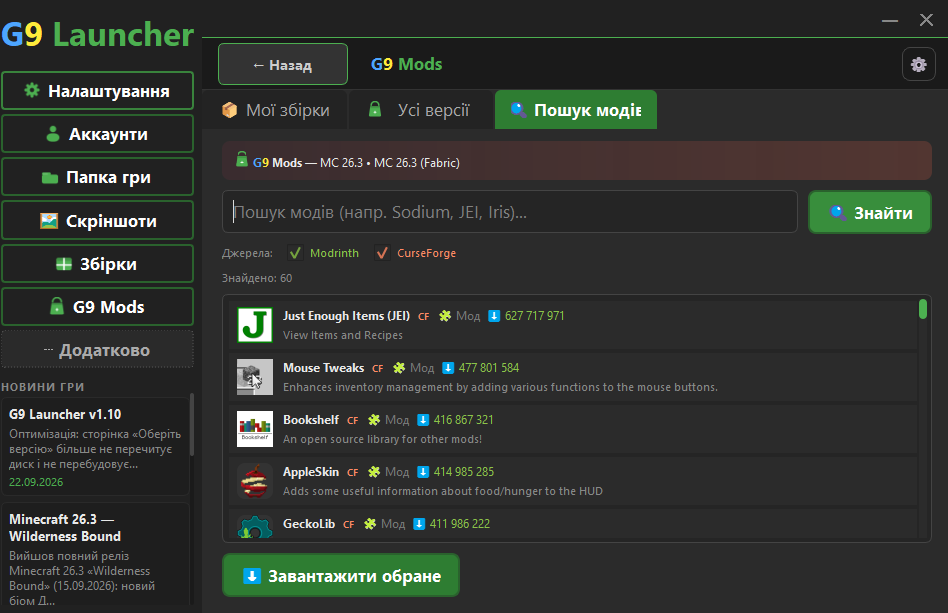
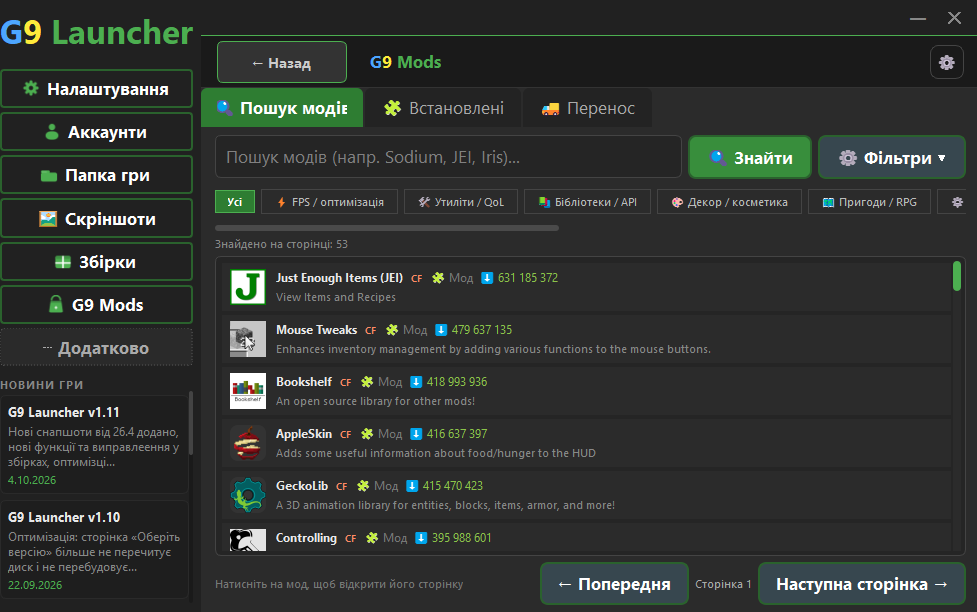
Add files via upload

diff --git a/index.html b/index.html
@@ -728,6 +728,15 @@
             color:#0c1712; padding:3px 12px; border-radius:6px; font-weight:700;
             margin-bottom:.6rem;
         }
+        .news-badge-beta { background:var(--n-yellow); color:#402d00; margin-left:6px; }
+        .news-warn { background:rgba(229,115,115,.1); border:1px solid rgba(229,115,115,.45); border-radius:10px; padding:.8rem 1rem; margin-top:.8rem; font-size:.86rem; color:var(--text-muted); line-height:1.55; }
+        .news-warn b { color:#e57373; }
+        .news-btn { display:inline-flex; align-items:center; gap:8px; margin-top:.9rem; background:var(--n-yellow); color:#402d00; padding:9px 18px; border-radius:8px; font-weight:700; font-size:.85rem; border:none; cursor:pointer; font-family:'Outfit',sans-serif; transition:all .3s var(--ease-standard); }
+        .news-btn:hover { transform:translateY(-2px); box-shadow:0 6px 18px rgba(240,185,11,.3); }
+        .beta-warn-list { margin:.4rem 0 0 1.1rem; padding:0; }
+        .beta-warn-list li { margin-bottom:.35rem; font-size:.9rem; color:var(--text-muted); line-height:1.5; }
+        .modal-dl-btn.beta-variant { background:var(--n-yellow); color:#402d00; box-shadow:0 6px 18px rgba(240,185,11,.25); }
+        .modal-dl-btn.beta-variant.enabled:hover { background:#ffd23f; }
         .mc-block-icon {
             display:inline-block; width:19px; height:19px; border-radius:3px;
             background:
@@ -833,7 +842,7 @@
 <input id="win1011Agree" onchange="toggleOsBtn('win1011')" type="checkbox"/>
 <label for="win1011Agree">Я ознайомився з інструкцією і розумію, як встановити та запустити <span style="color:var(--g-blue)">G</span><span style="color:var(--n-yellow)">9</span> Launcher</label>
 </div>
-<a class="modal-dl-btn" href="https://github.com/devalfastudios/G9-Launcher-Minecraft/releases/download/1.10/G9Launcher.exe" id="win1011DlBtn" target="_blank">
+<a class="modal-dl-btn" href="https://github.com/devalfastudios/G9-Launcher-Minecraft/releases/download/1.11/G9Launcher.exe" id="win1011DlBtn" target="_blank">
 <svg class="icon" fill="none" height="17" stroke="currentColor" stroke-linecap="round" stroke-linejoin="round" stroke-width="2.2" viewbox="0 0 24 24" width="17"><path d="M21 15v4a2 2 0 0 1-2 2H5a2 2 0 0 1-2-2v-4"></path><polyline points="7 10 12 15 17 10"></polyline><line x1="12" x2="12" y1="15" y2="3"></line></svg>
             Завантажити для Windows 10 / 11
         </a>
@@ -949,18 +958,28 @@
 <button class="modal-close" onclick="closeBetaModal()">✕</button>
 <h3>
 <svg class="icon" fill="none" height="20" stroke="#f0b90b" stroke-linecap="round" stroke-linejoin="round" stroke-width="2.2" viewbox="0 0 24 24" width="20"><path d="M10.29 3.86 1.82 18a2 2 0 0 0 1.71 3h16.94a2 2 0 0 0 1.71-3L13.71 3.86a2 2 0 0 0-3.42 0z"></path><line x1="12" x2="12" y1="9" y2="13"></line><line x1="12" x2="12.01" y1="17" y2="17"></line></svg>
-            BETA-версія закрита
+            Увага: нестабільна BETA-версія
         </h3>
 <div class="modal-content-box">
-<p><span class="beta-tag" style="margin-bottom:0;background:var(--text-dim);color:#0c1712;">BETA</span> <span class="version-num" style="margin-left:8px;">17.08.2026</span> <span class="cs-tag" style="background:#e57373;color:#3d0f0f;margin-left:8px;">НЕ АКТУАЛЬНА</span></p>
-<p>Тестування цієї збірки <span style="color:var(--g-blue)">G</span><span style="color:var(--n-yellow)">9</span> Launcher завершено, а завантаження BETA закрито — усі її напрацювання вже увійшли до стабільної версії.</p>
-<p>Ми вже готуємо нову версію лаунчера. Слідкуй за оновленнями в розділі "Новини"!</p>
+<p><span class="beta-tag" style="margin-bottom:0;">BETA 0.1</span> <span class="version-num" style="margin-left:8px;">PyQt6</span> <span class="cs-tag" style="background:#e57373;color:#3d0f0f;margin-left:8px;">НЕСТАБІЛЬНА</span></p>
+<p>Це перша тестова збірка нового покоління <span style="color:var(--g-blue)">G</span><span style="color:var(--n-yellow)">9</span> Launcher. Вона ще перебуває в розробці, тому перед завантаженням зверни увагу на ризики:</p>
+<ul class="beta-warn-list">
+<li>Лаунчер може працювати нестабільно, зависати або вилітати.</li>
+<li>Частина функцій зі стабільної версії може бути відсутня або працювати некоректно.</li>
+<li>Можливі помилки під час встановлення та запуску версій Minecraft, а також проблеми зі збереженими налаштуваннями й акаунтами.</li>
+<li>Збірка надається «як є» — команда <span style="color:var(--g-blue)">G</span><span style="color:var(--n-yellow)">9</span> Studios не гарантує її безперебійної роботи.</li>
+<li>Для щоденної гри рекомендуємо стабільну версію v1.11.</li>
+</ul>
+<p>Про помилки, які ти знайдеш, повідомляй нам у Telegram — це допоможе зробити лаунчер краще.</p>
 </div>
-<div class="os-soon-box" style="padding-top:.5rem;">
-<svg fill="none" height="30" stroke="var(--n-yellow)" stroke-linecap="round" stroke-linejoin="round" stroke-width="2" viewbox="0 0 24 24" width="30"><circle cx="12" cy="12" r="10"></circle><line x1="12" x2="12" y1="8" y2="12"></line><line x1="12" x2="12.01" y1="16" y2="16"></line></svg>
-<h4>Скоро нова версія</h4>
-<p>Завантаження BETA більше не доступне. Слідкуй за розділом "Новини" — анонс наступної версії вже незабаром!</p>
+<div class="modal-agree">
+<input id="betaAgree" onchange="toggleOsBtn('beta')" type="checkbox"/>
+<label for="betaAgree">Я розумію, що BETA-версія нестабільна, і погоджуюсь завантажувати та використовувати її на власний ризик</label>
 </div>
+<a class="modal-dl-btn beta-variant" href="https://github.com/devalfastudios/G9-Launcher-Minecraft/releases/download/Beta_0.1/G9LauncherBETA.exe" id="betaDlBtn" target="_blank" rel="noopener">
+<svg class="icon" fill="none" height="17" stroke="currentColor" stroke-linecap="round" stroke-linejoin="round" stroke-width="2.2" viewbox="0 0 24 24" width="17"><path d="M21 15v4a2 2 0 0 1-2 2H5a2 2 0 0 1-2-2v-4"></path><polyline points="7 10 12 15 17 10"></polyline><line x1="12" x2="12" y1="15" y2="3"></line></svg>
+            Завантажити BETA 0.1
+        </a>
 </div>
 </div>
 <!-- HEADER -->
@@ -1018,18 +1037,18 @@
 <section class="beta-callout animate-on-scroll" id="beta">
 <div class="beta-callout-box">
 <div class="beta-callout-left">
-<span class="beta-tag" style="background:var(--text-dim);color:#0c1712;">BETA ЗАКРИТА</span>
-<h3 class="beta-title"><span style="color:var(--g-blue)">G</span><span style="color:var(--n-yellow)">9</span> Launcher: BETA</h3>
-<p class="beta-desc">Тестування BETA-версії завершено. Завантаження більше не доступне — усі напрацювання увійшли до стабільної збірки. Вже готуємо нову версію лаунчера, слідкуй за розділом "Новини"!</p>
+<span class="beta-tag">АКТУАЛЬНА БЕТА</span>
+<h3 class="beta-title"><span style="color:var(--g-blue)">G</span><span style="color:var(--n-yellow)">9</span> Launcher: BETA 0.1</h3>
+<p class="beta-desc">Нове покоління лаунчера на PyQt6. Збірка експериментальна й може працювати нестабільно — перед завантаженням уважно ознайомся з ризиками.</p>
 <span class="version-badge" style="margin-top:.8rem;">
 <span class="version-dot"></span>
-<span class="version-num">Скоро нова версія</span>
+<span class="version-num">Beta 0.1 · PyQt6</span>
 </span>
 </div>
-<span class="beta-dl-btn beta-dl-btn-soon">
-<svg class="icon" fill="none" height="18" stroke="currentColor" stroke-linecap="round" stroke-linejoin="round" stroke-width="2" viewbox="0 0 24 24" width="18"><circle cx="12" cy="12" r="10"></circle><line x1="12" x2="12" y1="8" y2="12"></line><line x1="12" x2="12.01" y1="16" y2="16"></line></svg>
-<span>Скоро нова версія</span>
-</span>
+<a class="beta-dl-btn" href="#" onclick="openBetaModal();return false;">
+<svg class="icon" fill="none" height="18" stroke="currentColor" stroke-linecap="round" stroke-linejoin="round" stroke-width="2.2" viewbox="0 0 24 24" width="18"><path d="M21 15v4a2 2 0 0 1-2 2H5a2 2 0 0 1-2-2v-4"></path><polyline points="7 10 12 15 17 10"></polyline><line x1="12" x2="12" y1="15" y2="3"></line></svg>
+<span>Завантажити BETA</span>
+</a>
 </div>
 </section>
 <!-- FEATURES -->
@@ -1467,8 +1486,19 @@
 <p style="color:var(--text-muted);margin-bottom:2rem;font-size:.95rem;">Останні оновлення, релізи та новини від команди <span style="color:var(--g-blue)">G</span><span style="color:var(--n-yellow)">9</span> Studios.</p>
 <div class="news-list">
 <div class="news-card">
-<div class="news-card-top"><h3><span style="color:var(--g-blue)">G</span><span style="color:var(--n-yellow)">9</span> Launcher v1.10</h3><span class="news-date">22.09.2026</span></div>
+<div class="news-card-top"><h3><span style="color:var(--g-blue)">G</span><span style="color:var(--n-yellow)">9</span> Launcher v1.11</h3><span class="news-date">04.10.2026</span></div>
 <span class="news-badge">Актуальна версія</span>
+<p>Нові снапшоти від 26.4 додано, нові функції та виправлення у збірках, оптимізація та виправлення багів з роботи з версіями, можливість змінювати колір ніків. REWORK G9 Mods.</p>
+</div>
+<div class="news-card">
+<div class="news-card-top"><h3><span style="color:var(--g-blue)">G</span><span style="color:var(--n-yellow)">9</span> Launcher BETA 0.1 — нове покоління</h3><span class="news-date">04.10.2026</span></div>
+<span class="news-badge news-badge-beta">Актуальна бета</span>
+<p>Представляємо нове покоління <span style="color:var(--g-blue)">G</span><span style="color:var(--n-yellow)">9</span> Launcher — повністю переписаний лаунчер на PyQt6. Новий інтерфейс, нова архітектура та значно вищий потенціал для майбутніх оновлень. Це перша публічна бета-збірка (0.1), тож ми чекаємо на ваші відгуки та повідомлення про помилки в нашому Telegram.</p>
+<div class="news-warn"><b>Увага:</b> бета-версія нестабільна — можливі помилки, вильоти та відсутність частини функцій. Для повсякденної гри рекомендуємо стабільну версію v1.11.</div>
+<button class="news-btn" onclick="openBetaModal()"><svg class="icon" fill="none" height="16" stroke="currentColor" stroke-linecap="round" stroke-linejoin="round" stroke-width="2.2" viewbox="0 0 24 24" width="16"><path d="M21 15v4a2 2 0 0 1-2 2H5a2 2 0 0 1-2-2v-4"></path><polyline points="7 10 12 15 17 10"></polyline><line x1="12" x2="12" y1="15" y2="3"></line></svg> Завантажити BETA</button>
+</div>
+<div class="news-card">
+<div class="news-card-top"><h3><span style="color:var(--g-blue)">G</span><span style="color:var(--n-yellow)">9</span> Launcher v1.10</h3><span class="news-date">22.09.2026</span></div>
 <p>1.10: Нова версія, нові можливості! "Оптимізація: сторінка «Оберіть версію» більше не перечитує диск і не перебудовує весь список версій на кожне натискання клавіші в пошуку — це й було головною причиною лагів при великій кількості встановлених версій/збірок. Виправлено помилкове позначення Forge/Fabric/NeoForge/Quilt як \"встановлено\" (і пов'язаний з цим збій запуску), коли насправді завантажена лише Vanilla тієї ж версії. Додано перемикач анімації логотипа на сплеш-екрані, виправлено обрізаний текст на деяких екранах/масштабуваннях, підтримку Minecraft 26.3 (Vanilla + всі лоадери), а Снапшоти й Пре-релізи тепер у списку категорій поруч з Alpha/Beta. </p>
 </div>
 <div class="news-card">
@@ -1580,8 +1610,13 @@
     }
     document.getElementById('osModal').addEventListener('click', function(e){ if(e.target===this) closeOsModal(); });
     document.getElementById('coffeeModal').addEventListener('click', function(e){ if(e.target===this) closeModal('coffeeModal'); });
+    function openBetaModal() { openModal('betaModal'); }
     function closeBetaModal() {
         closeModal('betaModal');
+        const cb = document.getElementById('betaAgree');
+        const btn = document.getElementById('betaDlBtn');
+        if (cb) cb.checked = false;
+        if (btn) btn.classList.remove('enabled');
     }
     document.getElementById('betaModal').addEventListener('click', function(e){ if(e.target===this) closeBetaModal(); });
     function copyCardNumber() {
